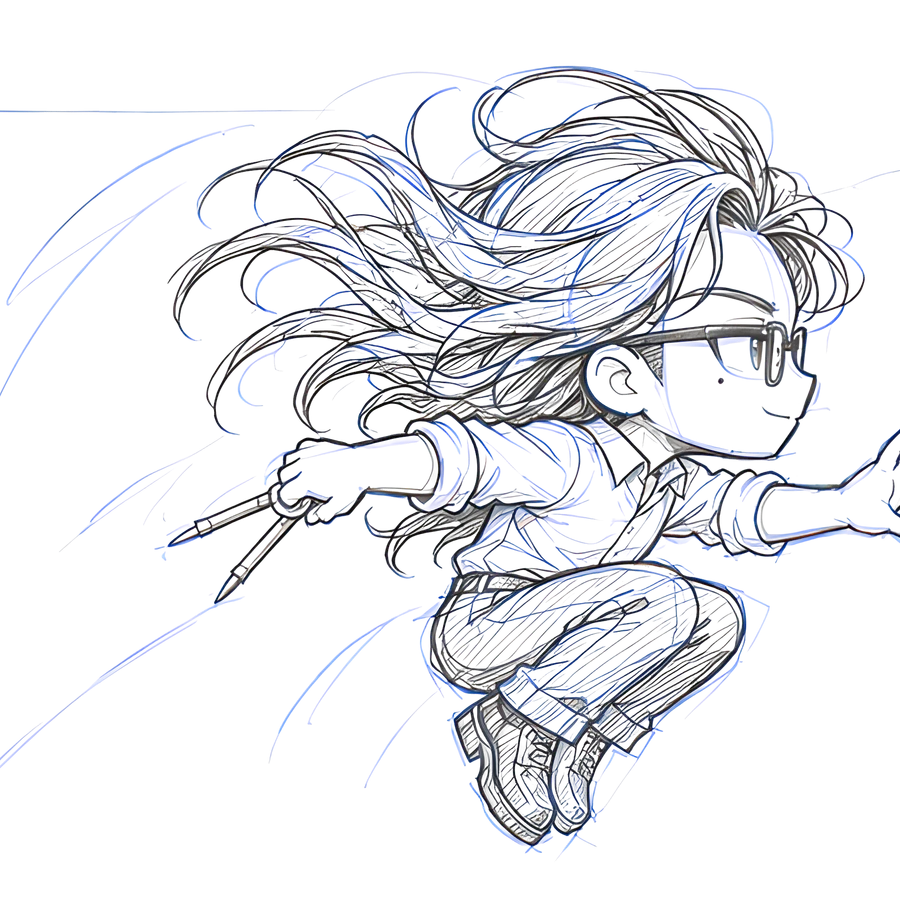
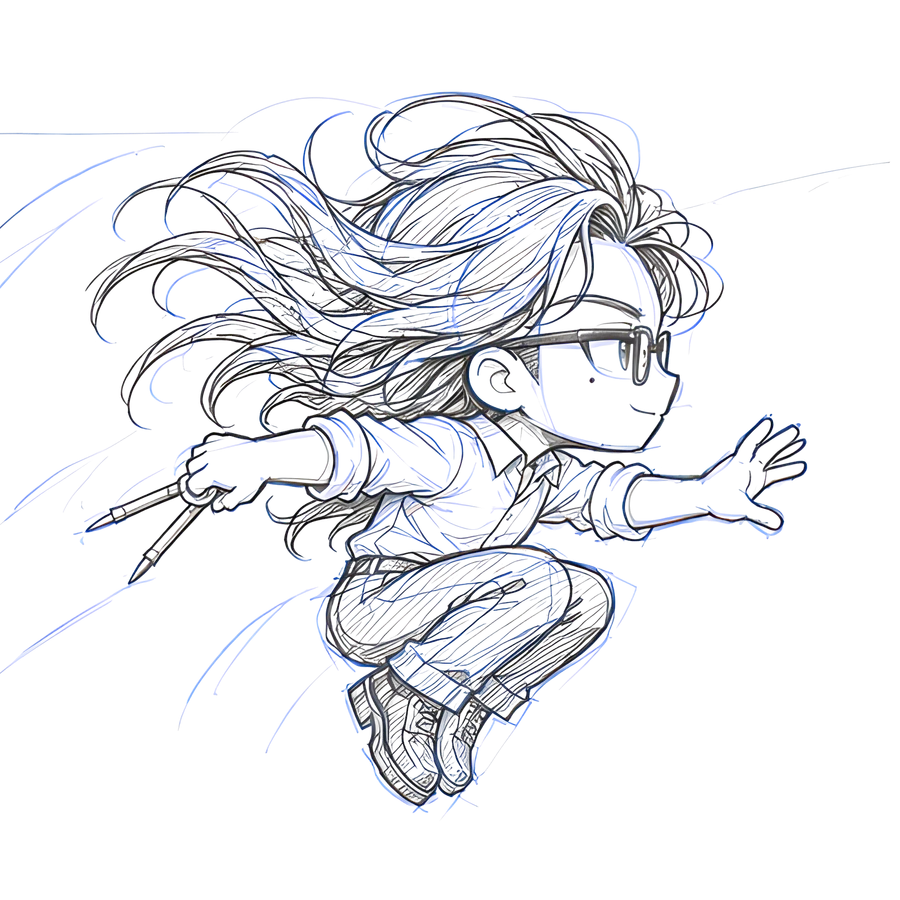
Making of: el boceto se convierte en el dibujo terminado, y arreglos para Safari
- El tercer cuadro del salto se entinta con el scroll: la tinta barre el boceto
  en la dirección del salto, con el borde suave, y el lápiz se borra donde llega.
- Boceto y tinta registrados por coincidencia de siluetas: los trazos coinciden.
- Safari no aplica la opacidad de un contenedor 3D a sus hijos: el arco y el plato
  ya no se ven donde no tocan (cada dibujo se esconde solo; el contenedor, con visibility).

diff --git a/src/app/pocket.css b/src/app/pocket.css
@@ -514,15 +514,19 @@ button:focus-visible,a:focus-visible{outline:3px solid var(--hl);outline-offset:
 .mk-cam{position:absolute;left:50%;top:50%;width:100%;aspect-ratio:1/1;transform:translate(-50%,-50%);transform-style:preserve-3d}
 @media (min-aspect-ratio:2/3){.mk-cam{width:84%}}
 /* el plato: cuatro vistas a lápiz, de pie como figuras recortadas, que giran con el scroll */
-.mk-plato{position:absolute;left:50%;top:97%;width:0;height:0;transform-style:preserve-3d;transition:opacity .5s,transform .12s linear}
+.mk-plato{position:absolute;left:50%;top:97%;width:0;height:0;transform-style:preserve-3d;transition:transform .12s linear}
 .mk-g{position:absolute;left:0;top:0;width:min(48vw,232px);transform-style:preserve-3d;backface-visibility:hidden;-webkit-backface-visibility:hidden;
   opacity:0;transition:opacity .4s}
 .mk-g img{display:block;width:100%;height:auto;filter:drop-shadow(0 6px 4px rgba(26,43,76,.18))}
 .lapiz .mk-g{opacity:1}
-.tinta .mk-plato{opacity:0;pointer-events:none;transition:opacity .2s}
+/* (Safari ignora la opacidad de un contenedor 3D: se esconde cada vista y el plato con visibility) */
+.tinta .mk-g{opacity:0;transition:opacity .2s}
+.tinta .mk-plato{visibility:hidden;transition:transform .12s linear,visibility 0s .2s}
 /* el salto: cinco cuadros sobre su arco, cada uno un poco más cerca; el tercero es mitad lápiz, mitad tinta */
-.mk-salto{position:absolute;inset:0;transform-style:preserve-3d;opacity:0;transition:opacity .4s}
-.tinta .mk-salto{opacity:1}
+.mk-salto{position:absolute;inset:0;transform-style:preserve-3d;visibility:hidden;transition:visibility 0s .4s}
+.tinta .mk-salto{visibility:visible;transition:visibility 0s}
+.mk-arco{opacity:0;transition:opacity .4s}
+.tinta .mk-arco{opacity:1}
 .mk-cara{position:absolute;left:24%;top:54%;width:52%;height:auto;opacity:0;transform:translateZ(-60px) scale(.94);transition:opacity .5s .15s,transform .7s cubic-bezier(.2,.8,.25,1) .15s;
   -webkit-mask-image:radial-gradient(ellipse 46% 50% at 50% 50%,#000 70%,transparent 100%);mask-image:radial-gradient(ellipse 46% 50% at 50% 50%,#000 70%,transparent 100%)}
 .tinta .mk-cara{opacity:.38;transform:translateZ(-60px)}
@@ -535,15 +539,16 @@ button:focus-visible,a:focus-visible{outline:3px solid var(--hl);outline-offset:
 .mk-f1.in{opacity:1;transform:translate3d(0,0,0)}     .mk-f2.in{opacity:1;transform:translate3d(0,0,12px)}
 .mk-f3.in{opacity:1;transform:translate3d(0,0,24px)}  .mk-f4.in{opacity:1;transform:translate3d(0,0,36px)}  .mk-f5.in{opacity:1;transform:translate3d(0,0,48px)}
 /* la estela: lo que ya pasó queda más tenue, como papel cebolla */
-.mk-f.in:has(~ .mk-f.in){filter:opacity(.62)}
+.mk-f.in:not(.mk-f3):has(~ .mk-f.in){filter:opacity(.62)}
 /* el tercer cuadro: la tinta entra en diagonal y se queda a la mitad */
-/* el tercer cuadro: a la izquierda solo el lápiz, a la derecha solo la tinta, con la costura suave
-   (las dos máscaras se complementan: nunca se ven las dos líneas a la vez) */
-.mk-f3 .bo{-webkit-mask-image:linear-gradient(105deg,#000 44%,transparent 58%);mask-image:linear-gradient(105deg,#000 44%,transparent 58%)}
-.mk-f3 .co{-webkit-mask-image:linear-gradient(105deg,transparent 44%,#000 58%);mask-image:linear-gradient(105deg,transparent 44%,#000 58%);opacity:0;transition:opacity .6s ease .3s}
-.mk-f3:not(.in) .bo{-webkit-mask-image:none;mask-image:none}
-.mk-f3.in .co{opacity:1}
-.codigo .mk-salto{filter:brightness(.7) blur(1.5px)}
+/* el tercer cuadro: el boceto se convierte en el dibujo terminado. La tinta barre con el scroll (--t, de 0 a 1)
+   en la dirección del salto, con el borde suave; el lápiz se borra justo donde llega la tinta, así nunca se ven dos líneas */
+.mk-f3{--t:0;width:33.75%;left:33.6%;top:6%}   /* su lienzo tiene más aire (el boceto se sale más que la tinta) */
+.mk-f3 .co{-webkit-mask-image:linear-gradient(100deg,#000 calc(var(--t)*136% - 18%),transparent calc(var(--t)*136%));
+  mask-image:linear-gradient(100deg,#000 calc(var(--t)*136% - 18%),transparent calc(var(--t)*136%))}
+.mk-f3 .bo{-webkit-mask-image:linear-gradient(100deg,transparent calc(var(--t)*136% - 18%),#000 calc(var(--t)*136%));
+  mask-image:linear-gradient(100deg,transparent calc(var(--t)*136% - 18%),#000 calc(var(--t)*136%))}
+.codigo .mk-f,.codigo .mk-cara,.codigo .mk-arco{filter:brightness(.7) blur(1.5px)}
 @media (prefers-reduced-motion:reduce){.mk-plato,.mk-g,.mk-salto,.mk-f,.mk-f3 .co{transition:none}}
 
 /* la tarjeta del código, con su salto en vivo */

diff --git a/src/lib/motor.js b/src/lib/motor.js
@@ -1255,8 +1255,12 @@ function making3D(){const s=scenes.mkof; if(!s||!MK.cam) return; const y=scrollY
   const at=id=>{const it=ITEMS.find(x=>x.id===id); return it?it.at:0};
   const a1=at('mk1')-vh*.6, a3=at('mk3')-vh*.3, a4=at('mk4')-vh*.3, ac=at('code')-vh*.3;
   const giro=reduced?0:Math.max(0,Math.min(1,(y-a1)/Math.max(1,a3-a1)))*540;                   /* vuelta y media mientras se lee el lápiz */
-  const n=y<a3?0:Math.min(5,1+Math.floor((y-a3)/Math.max(1,(a4-a3)/4)));                       /* cuántos cuadros del salto van dibujados: los cinco antes del globo que los cuenta */
-  const key=[y>=a1+vh*.25?1:0,Math.round(giro),n,y>=ac?1:0].join('|'); if(key===mkLast) return; mkLast=key;
+  const fin=(a4+ac)/2, paso=Math.max(1,(fin-a3)/4);                                                 /* el salto se reparte hasta entre el globo y el código */
+  const n=y<a3?0:Math.min(5,1+Math.floor((y-a3)/paso));                                                 /* cuántos cuadros del salto van dibujados */
+  /* el tercer cuadro se entinta con el scroll: la tinta barre el boceto en la dirección del salto */
+  const tinta=reduced?(n>=3?1:0):Math.max(0,Math.min(1,(y-(a3+2*paso))/(paso*1.6)));
+  const key=[y>=a1+vh*.25?1:0,Math.round(giro),n,y>=ac?1:0,Math.round(tinta*100)].join('|'); if(key===mkLast) return; mkLast=key;
+  if(MK.f[2]) MK.f[2].style.setProperty('--t',tinta.toFixed(3));
   MK.cam.classList.toggle('lapiz',y>=a1+vh*.25); MK.cam.classList.toggle('tinta',y>=a3); MK.cam.classList.toggle('codigo',y>=ac);
   const r=Math.round(MK.cam.clientWidth*.19);
   MK.g.forEach((g,k)=>{g.style.transform=`translate(-50%,-100%) rotateY(${k*90}deg) translateZ(${r}px)`});
